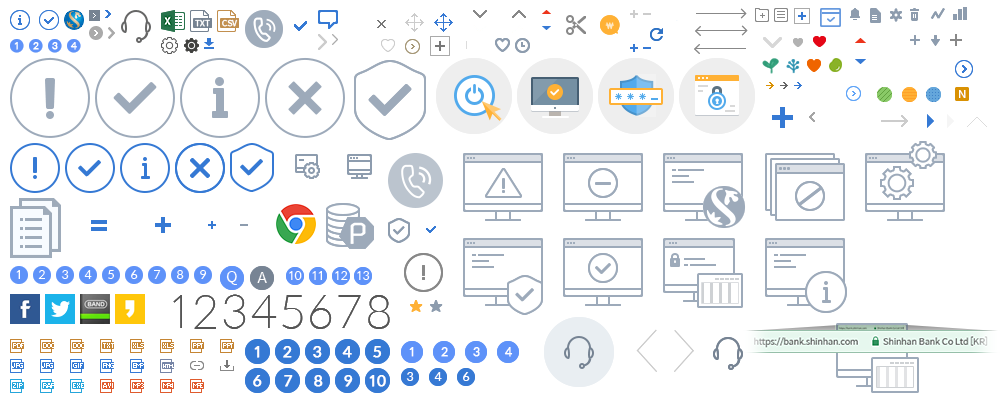
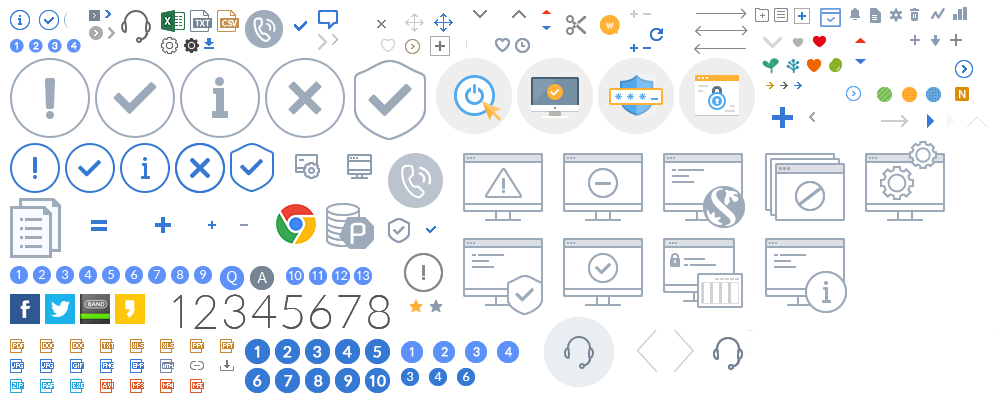
[🎨]메인배너 1차 완성

Changed region(s): [[0.744, 0.81, 0.992, 0.99], [0.062, 0.03, 0.093, 0.09]]

diff --git a/css/main_banner.css b/css/main_banner.css
@@ -145,3 +145,42 @@
 #main_quick_menu li a {
     color: #777;
 }
+
+
+#indicator_box {
+    position: absolute;
+    bottom: 53.5%;
+    right: 50%;
+    margin-right: -364px;
+    z-index: 10;
+    overflow: hidden;
+}
+
+#indicator_box span {
+    width: 220px;
+    float: left;
+    text-align: right;
+}
+
+#indicator_box #indicator #slider1,#slider2,#slider3,#slider4,#slider5 {
+    display: inline-block;
+    width: 12px;
+    height: 12px;
+    margin-left: 10px;
+    text-indent: -1000em;
+    border-radius: 6px;
+    background: #bebebe;
+    overflow: hidden;
+}
+
+
+#indicator_box #indicator #slider_play {
+    color: transparent;
+    float: right;
+    margin-top: 2px;
+    margin-left: 14px;
+    width: 12px;
+    height: 12px;
+    background: url(../img/img_intro.png) -864px -74px no-repeat;
+    overflow: hidden;
+}

diff --git a/index.html b/index.html
@@ -36,6 +36,17 @@
                     <a  href="#">다음배너</a>
                 </div>
             </div>
+            <div id="indicator_box">
+                <span id="indicator">
+                <a id="slider1" href="#"></a>
+                <a id="slider2" href="#"></a>
+                <a id="slider3" href="#"></a>
+                <a id="slider4" href="#"></a>
+                <a id="slider5" href="#"></a>
+                <a id="slider_play" href="#">배너 동작</a>
+                </span>
+            </div>
+
         </div>
 
 
